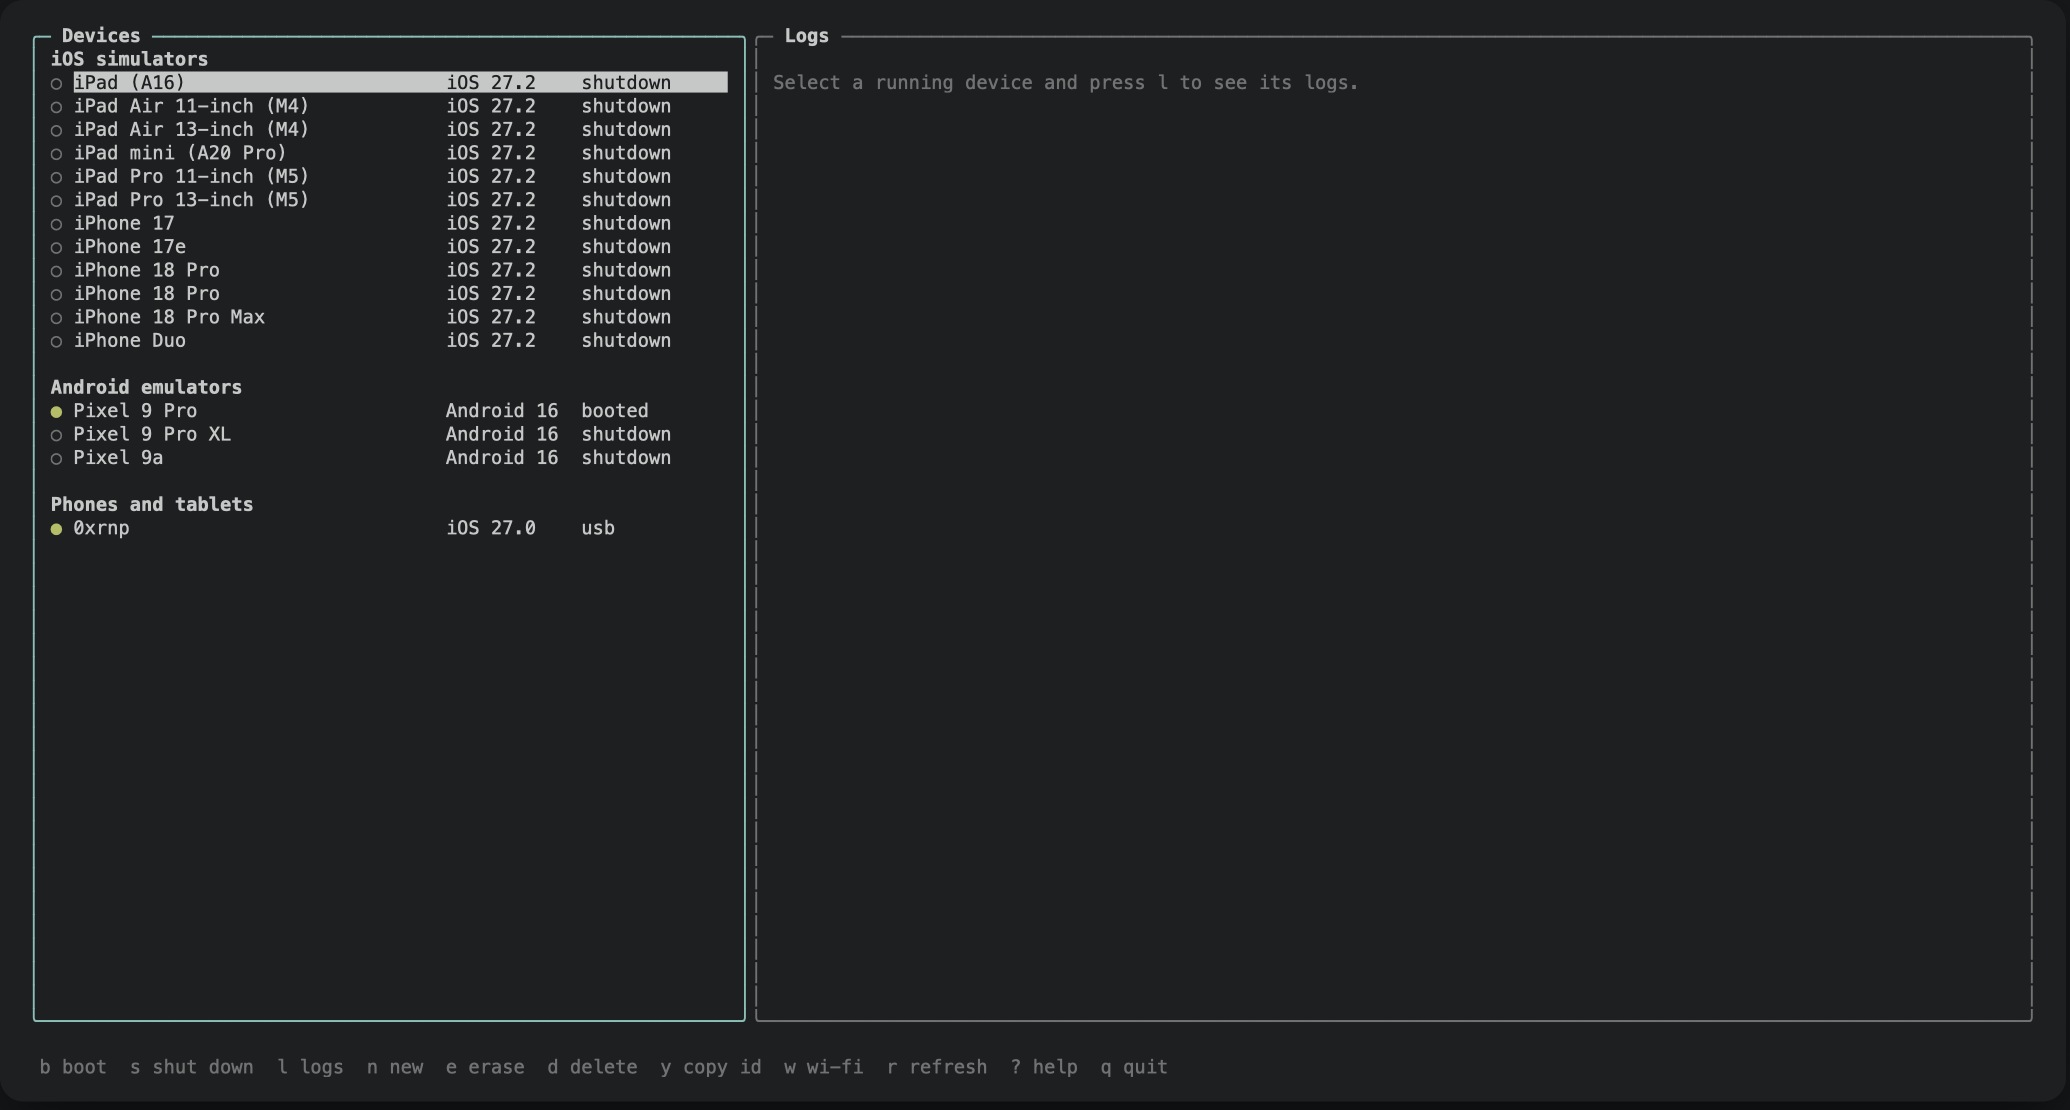
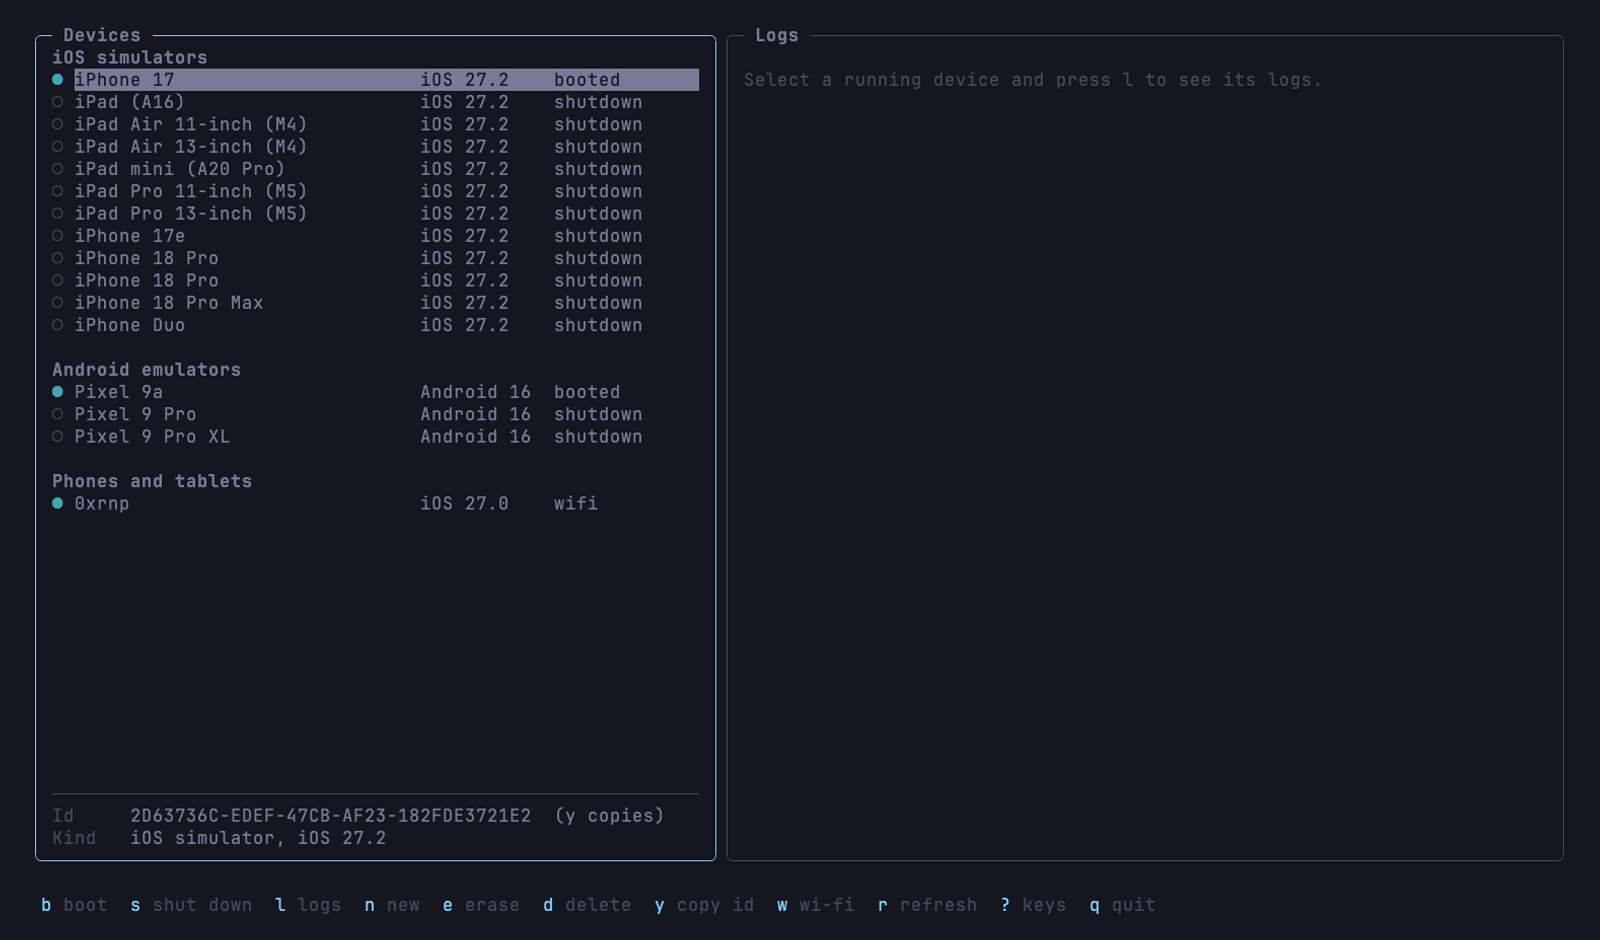
Retake the README screenshots to match the demo

diff --git a/README.md b/README.md
@@ -19,17 +19,17 @@ another editor's terminal.
 <details>
 <summary>More screenshots</summary>
 
-A log of a running Android emulator:
-
-![The dashboard following the log of a running Android emulator](docs/logs.png)
-
 The device list:
 
 ![Simulators, emulators and a connected iPhone in one list](docs/devices.png)
 
-The apps installed on the device, and the ones used before, offered when a log is opened with `l`:
+The log of one app on an Android emulator, with its crash in red:
 
-![The apps used before, with version and build, offered before a log opens](docs/app-picker.png)
+![The dashboard following an app's log on an Android emulator through a crash](docs/logs.png)
+
+Every key, with `?`:
+
+![The key list, with what each key does](docs/help.png)
 
 </details>
 
